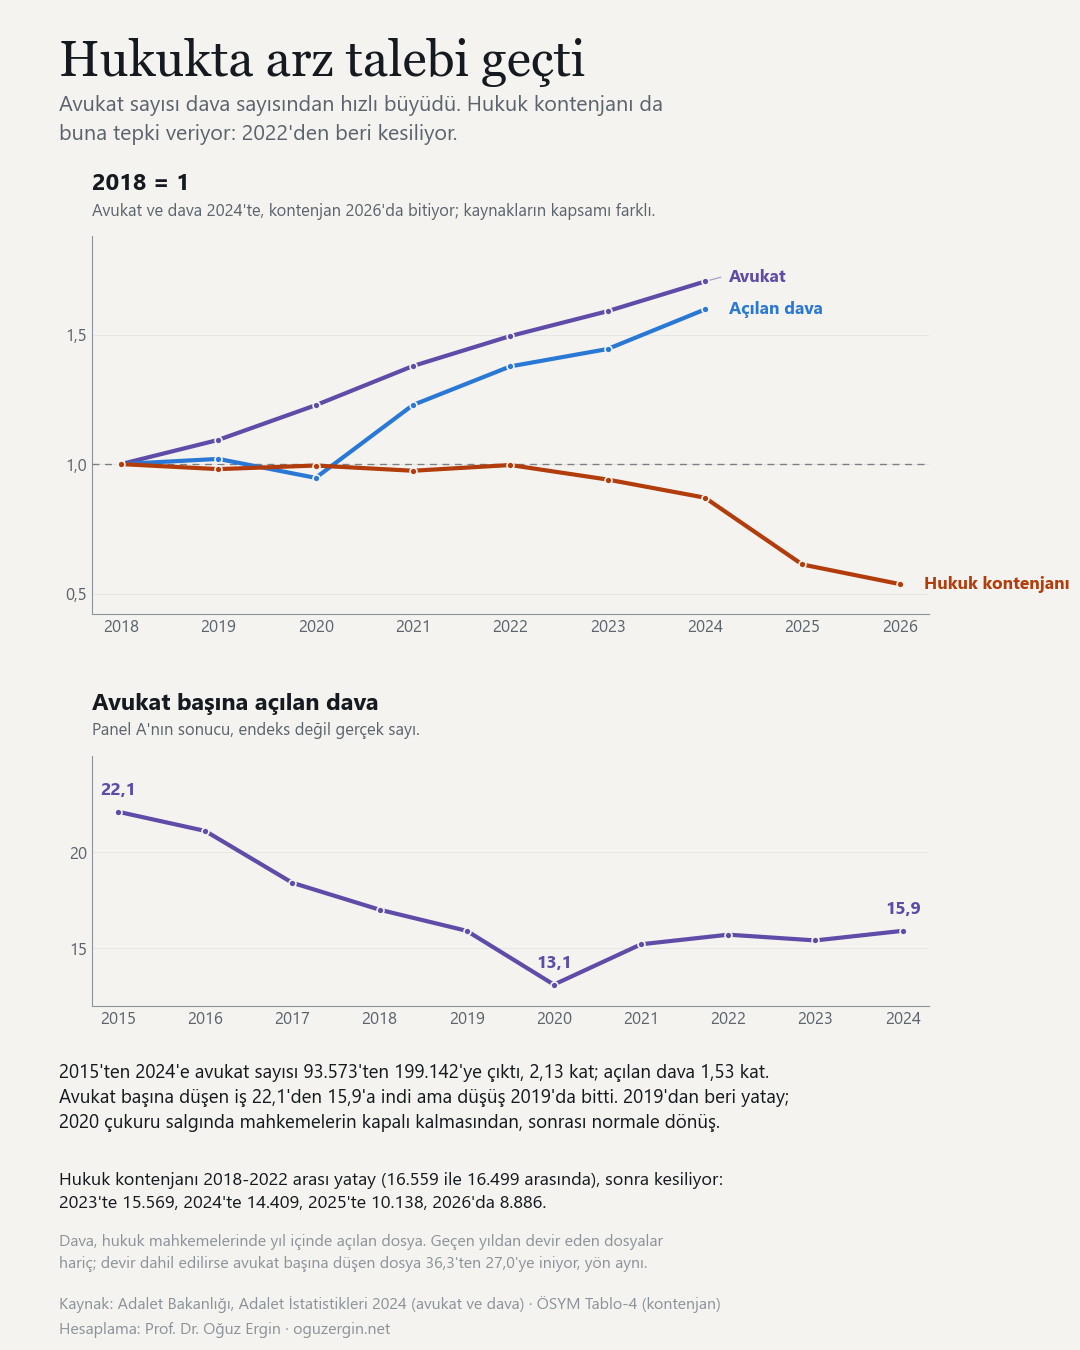
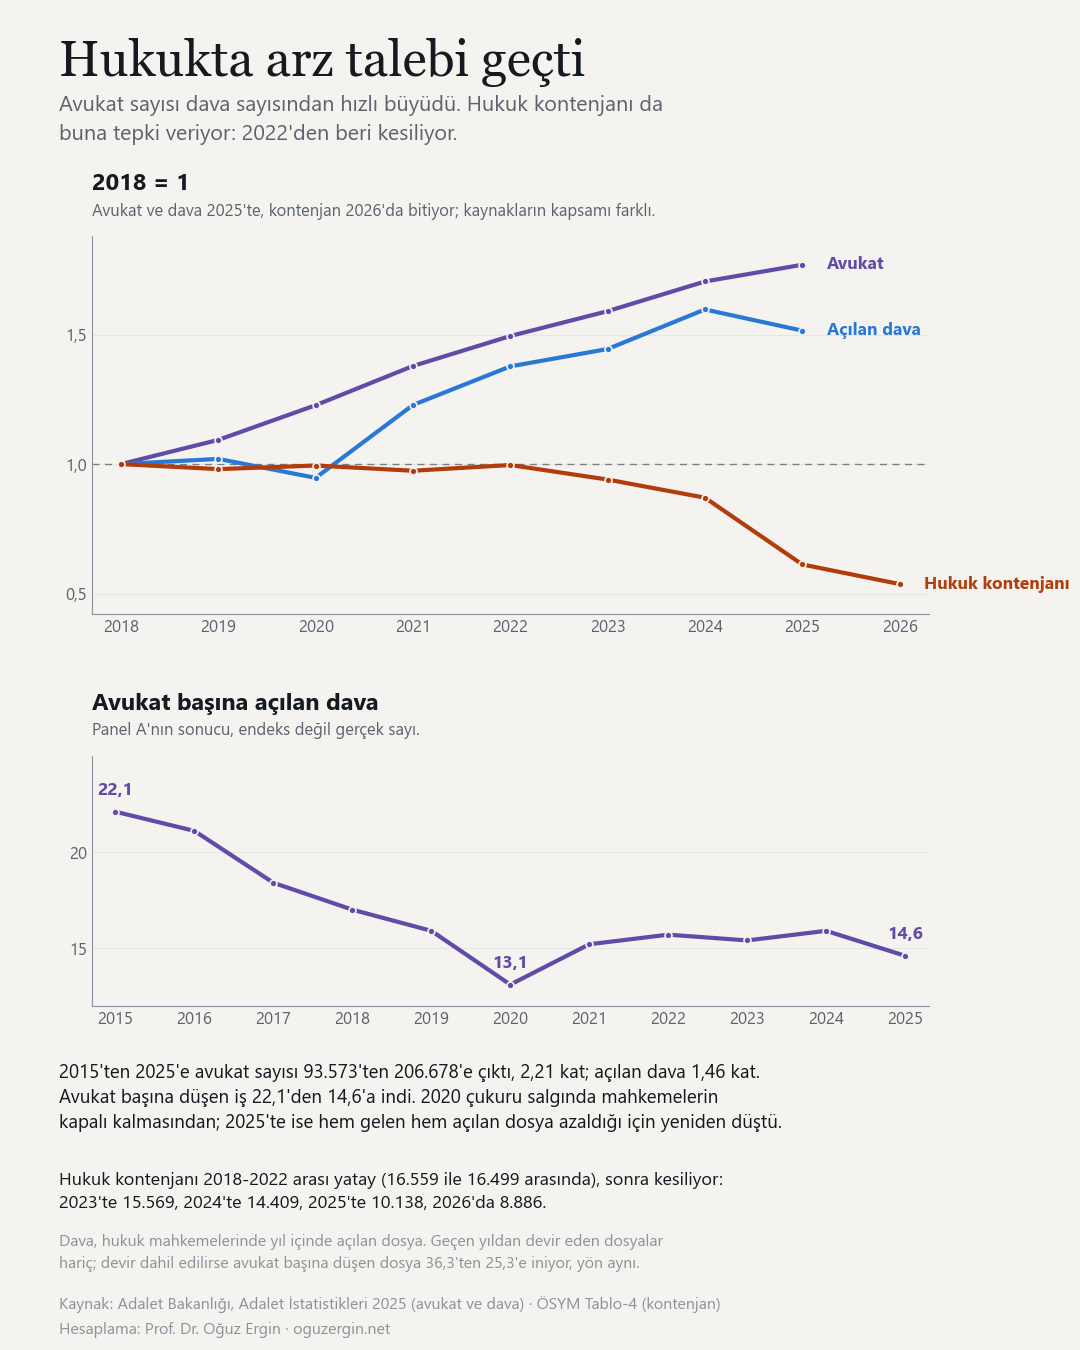
Avukat ve dava serisini 2025'e uzat
Oğuz sordu: 2025 sonunda baroya kayıtlı avukat sayısının olması gerek. Haklıydı,
iki kaynak da yayımlanmış.

TBB'nin 31.12.2025 listesi: 206.678 avukat (kadın 100.015, erkek 106.663).
Adalet İstatistikleri 2025 de çıkmış; Tarihi Tablolar 117 numaralı tablo aynı
sayıyı veriyor, iki bağımsız kaynak yine birebir tutuyor.

Yıllık kitap on yıl taşıyor ve pencere kayıyor: 2024 kitabı 2015-2024, 2025 kitabı
2016-2025. Çakışan dokuz yılın dokuzu da iki baskıda aynı, seri birleştirildi;
2015 eski kitaptan, 2016-2025 yenisinden. Seri artık on bir yıl.

2025 iki yönden birden ayrışıyor: avukat sayısı büyümeyi sürdürürken gelen dosya
2020'den bu yana ilk kez azaldı (5.369.402'den 5.230.402'ye), açılan dosya da
(3.173.045'ten 3.010.106'ya). Avukat başına düşen iş on bir yılın en düşük düzeyine
indi: gelen 25,3, açılan 14,6.

Harita 31 Aralık 2024 listesinde kalıyor, gerekçesi sayfada yazılı: kişi başı oranın
paydası olan il nüfusu 2024 yıllığından geliyor, 2025 avukatını 2024 nüfusuna bölmek
oranı bozar. Yıl serisi ülke toplamı olduğu için nüfusa bağlı değil.

Kartın dipnotları elle yazılmıştı ve seri uzayınca yalan söylemeye başlıyordu
("2019'dan beri yatay" derken 2025'te yeni bir düşüş var). Hepsi veriden türetiliyor.

diff --git a/index.html b/index.html
@@ -536,11 +536,15 @@ footer p{color:var(--ink-3);max-width:76ch}
   <h2>Hukuk: avukat sayısı ve iş yükü</h2>
   <p>Avukatta eşitsizlik hekimdekinden sert. Ankara 100 binde 481, Muş 52, arada
   <strong>9,3 kat</strong> var; hekimde bu fark 3,8 katta kalıyor.</p>
-  <p>Asıl hikâye ise haritada değil, arz tarafında. 2015'ten 2024'e baroya kayıtlı avukat
-  sayısı <strong>93.573'ten 199.142'ye</strong> çıktı, 2,13 kat. Aynı dönemde hukuk
-  mahkemelerine gelen dosya 1,58 kat arttı, avukattan yavaş; <strong>avukat başına düşen
-  dosya 36,3'ten 27,0'ye indi.</strong> Düşüş sürekli değil: dip 2020'de (25,4), o tarihten
-  beri seri 25,4 ile 27,0 arasında dar bir bantta.</p>
+  <p>Asıl hikâye ise haritada değil, arz tarafında. 2015'ten 2025'e baroya kayıtlı avukat
+  sayısı <strong>93.573'ten 206.678'e</strong> çıktı, 2,21 kat. Aynı dönemde hukuk
+  mahkemelerine gelen dosya 1,54 kat arttı, avukattan yavaş; <strong>avukat başına düşen
+  dosya 36,3'ten 25,3'e indi.</strong></p>
+  <p>2025 iki yönden birden ayrışıyor. Avukat sayısı büyümeyi sürdürürken <strong>gelen dosya
+  2020'den bu yana ilk kez azaldı</strong> (5.369.402'den 5.230.402'ye), açılan dosya da
+  (3.173.045'ten 3.010.106'ya). İkisi birleşince avukat başına düşen iş on bir yılın en düşük
+  düzeyine indi. Aşağıdaki harita 31 Aralık 2024 listesinden, çünkü kişi başı oranın paydası
+  olan il nüfusu 2024 yıllığından geliyor; yıl serisi ülke toplamı olduğu için 2025'e uzanıyor.</p>
   <p>Kontenjan tarafı ters yöne dönmüş durumda. 2018-2022 arasında hukuk kontenjanı
   16 binin üzerinde yatay seyretti; <strong>kesinti 2023'te başladı, asıl kırılma
   2025'te oldu</strong> (14.409'dan 10.138'e). 2026'da 8.886 kaldı, 2022'ye göre
@@ -896,8 +900,9 @@ function hukukSeri(){
     + sat("Avukat başına açılan dosya", h.acilan, vg)
     + "</tbody></table>";
   document.getElementById("n-hukuk-seri").innerHTML =
-    "Kontenjan ÖSYM'den (2018-2026), avukat sayısı Adalet İstatistikleri'nden (2024'te "
-    + "bitiyor, 2025 yıllığı henüz yayımlanmadı). <strong>Gelen</strong> dosya geçen yıldan "
+    "Kontenjan ÖSYM'den (2018-2026), avukat ve dosya sayısı Adalet İstatistikleri'nden "
+    + "(2025'te bitiyor, 2026 yıllığı henüz yayımlanmadı); 2025 toplamı Türkiye Barolar "
+    + "Birliği'nin 31.12.2025 listesiyle birebir tutuyor. <strong>Gelen</strong> dosya geçen yıldan "
     + "devredeni de sayar, mahkemenin önündeki toplam iştir; <strong>açılan</strong> yalnız "
     + "o yıl açılanı, talebin kendisidir. İkisi aynı yönde hareket ediyor, düzeyleri farklı.";
 }
@@ -980,7 +985,7 @@ function haritaCiz(o, on){
 // Veri dosyalarinin surumu. Yayin betigi (yayin_hazirla.py) bu satiri iceriklerin ozetiyle
 // degistiriyor; bir duzeltme yayimlandiginda okurun tarayicisi eski JSON'u onbellekten
 // okumasin. Yerelde bos kaliyor, sunucu zaten taze veriyor.
-const SURUM = "?v=f0d779a9b9";
+const SURUM = "?v=81231ddb3d";
 // Yerelde SURUM bos kaliyor ve tarayici eski JSON'u onbellekten okuyabiliyor; bu, veri
 // bicimi degistiginde sayfayi hataya dusuruyor. Yerelde her yenilemede taze cekiliyor.
 const yerel = ["localhost", "127.0.0.1", ""].includes(location.hostname);
